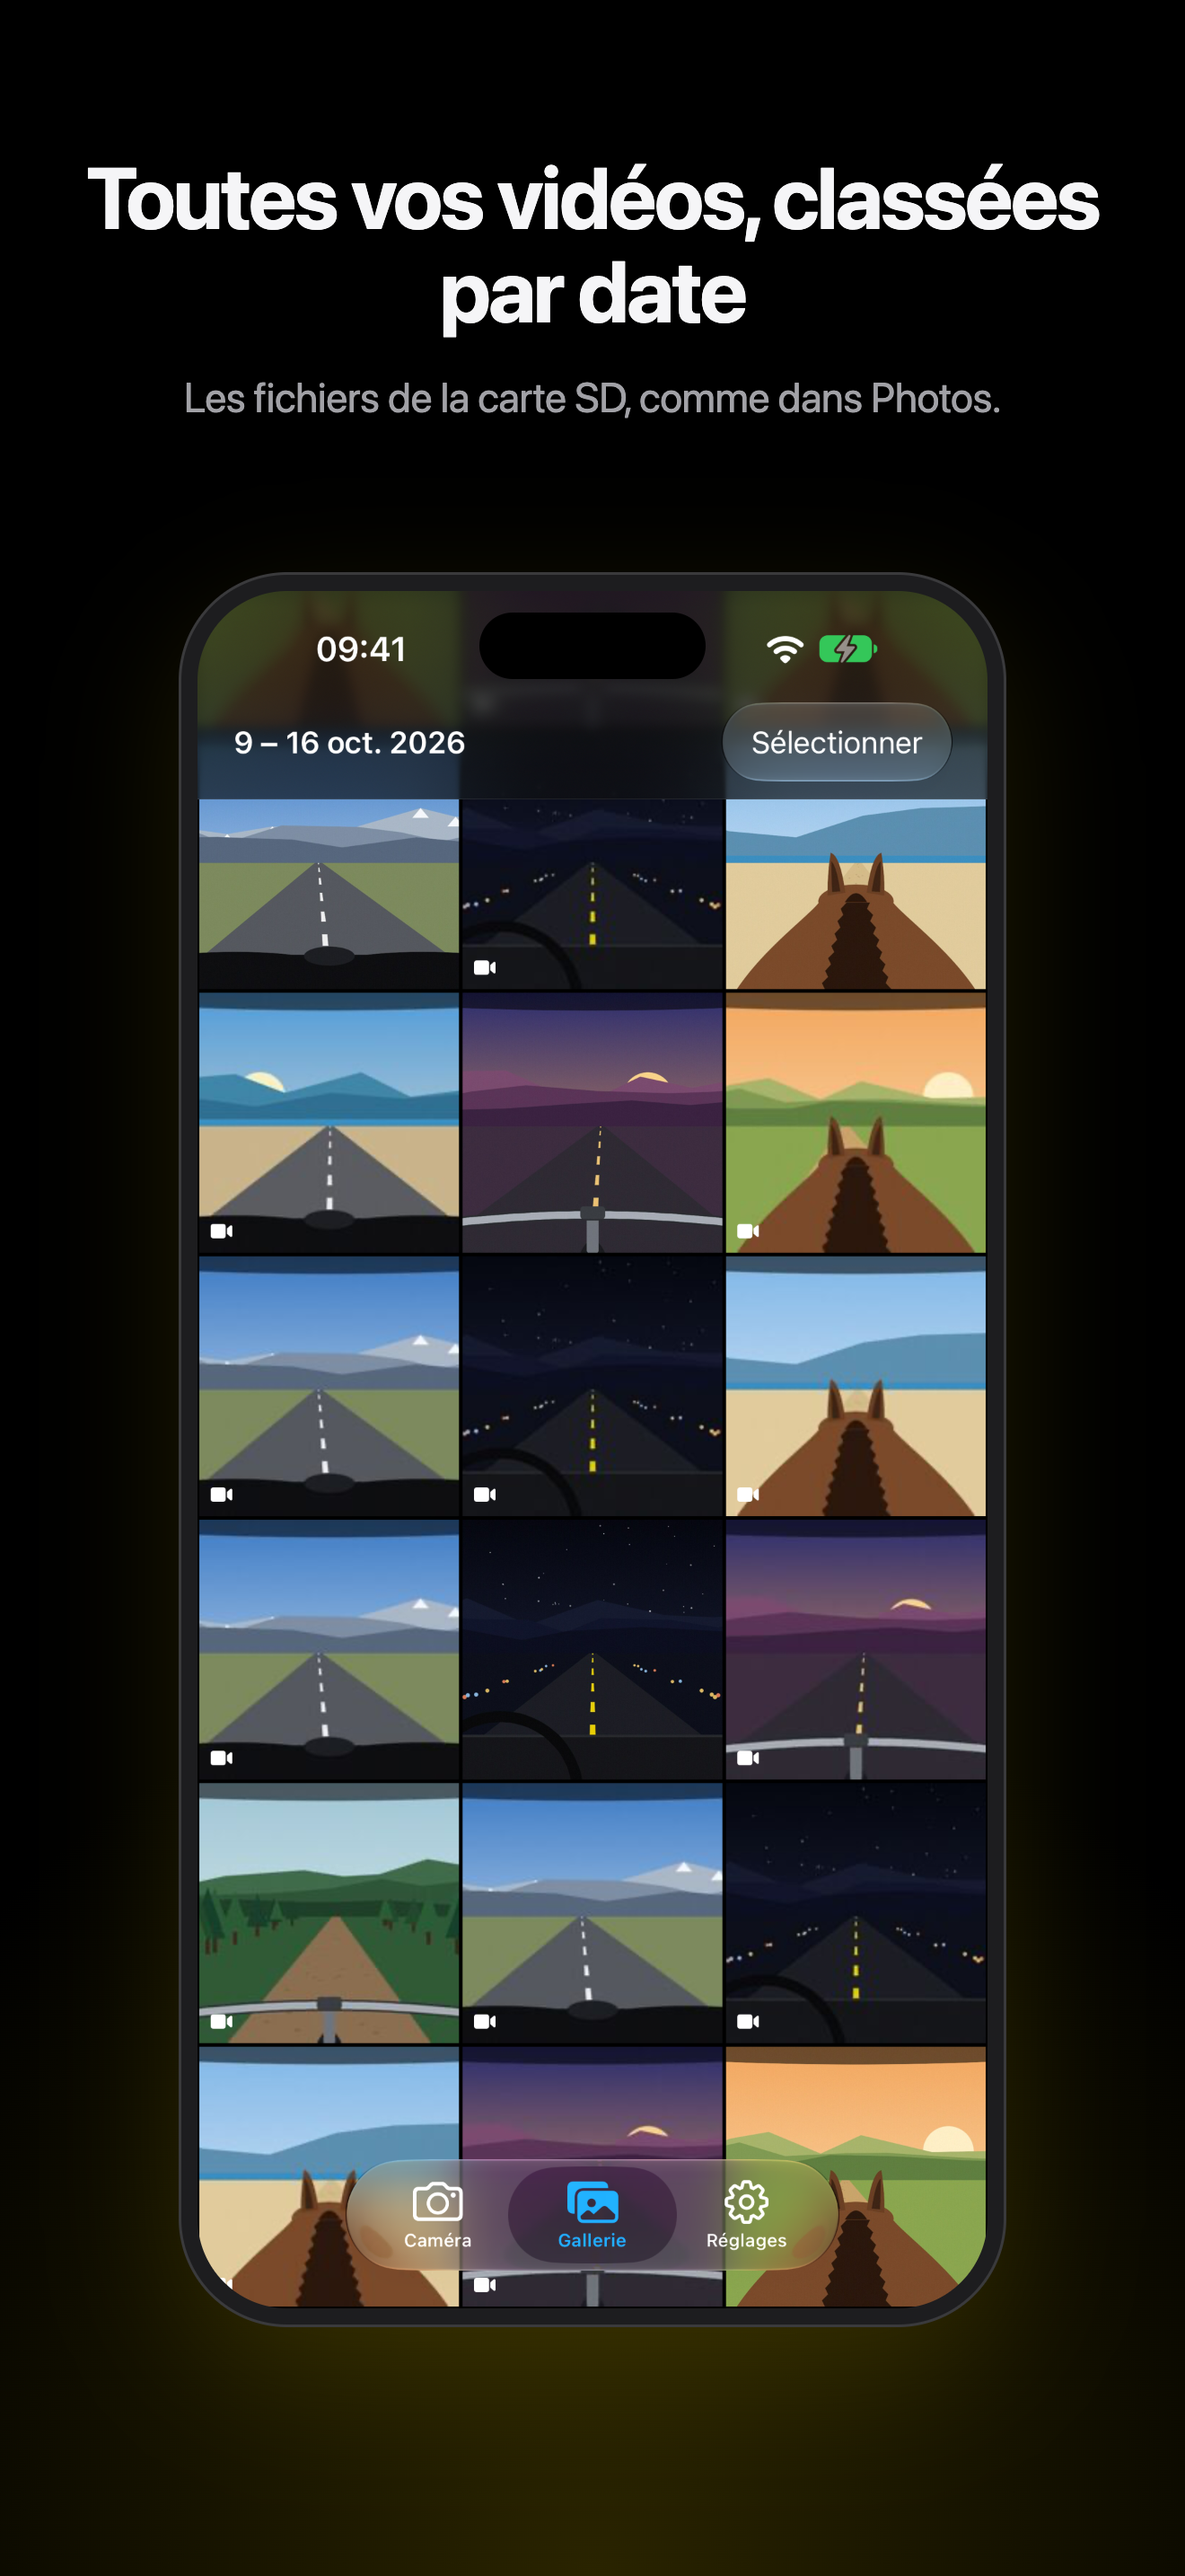
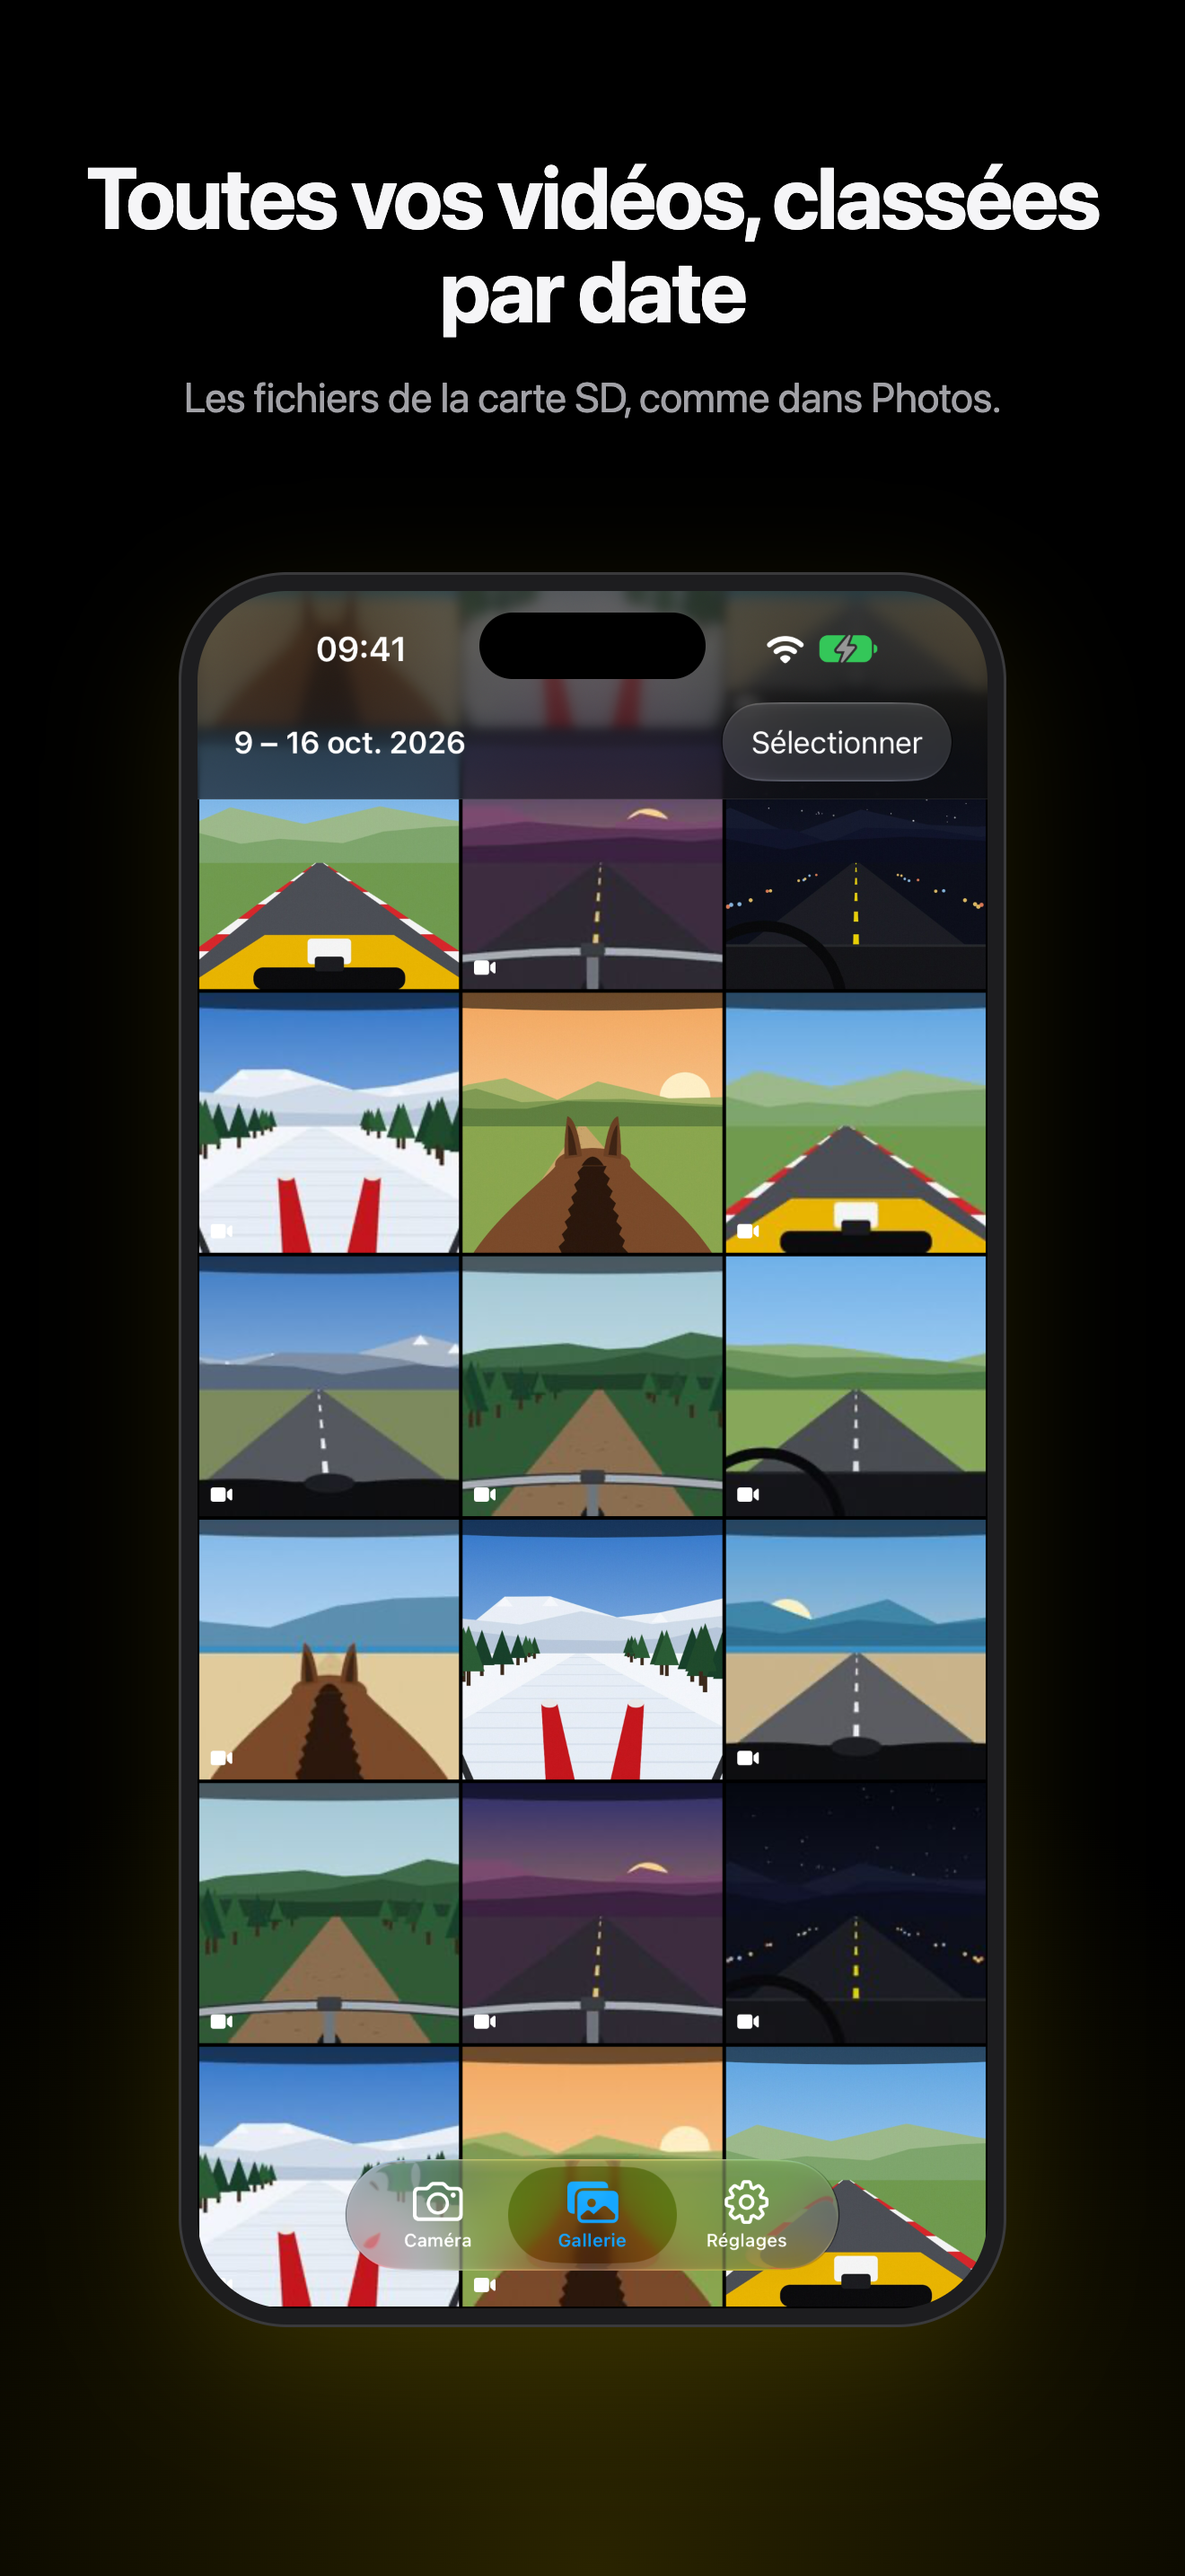
Add new WebP images for Moto and Ski usage - Introduced `use-moto.webp` to enhance visual representation for Moto-related content. - Added `use-ski.webp` for Ski-related visuals, improving user engagement.

diff --git a/docs/index.html b/docs/index.html
@@ -4,7 +4,7 @@
   <meta charset="utf-8">
   <meta name="viewport" content="width=device-width, initial-scale=1, viewport-fit=cover">
   <title>Caméra Casque · App iPhone et Android compatible Cambox V3+ et V4</title>
-  <meta name="description" content="Caméra Casque, l’application gratuite compatible Cambox V3+ et V4 qui remplace l’app Cambox disparue des stores : aperçu en direct, vidéos, réglages. À cheval, à moto, à vélo ou en voiture. iPhone et Android.">
+  <meta name="description" content="Caméra Casque, l’application gratuite compatible Cambox V3+ et V4 qui remplace l’app Cambox disparue des stores : aperçu en direct, vidéos, réglages. Sports équestres, sports mécaniques, karting, vélo, ski. iPhone et Android.">
   <meta name="color-scheme" content="light dark">
   <meta name="theme-color" content="#000000">
   <link rel="canonical" href="https://cameracasque.fr/">
@@ -23,7 +23,7 @@
   <meta name="twitter:card" content="summary_large_image">
   <link rel="icon" href="favicon.png" type="image/png">
   <link rel="apple-touch-icon" href="apple-touch-icon.png">
-  <link rel="stylesheet" href="styles.css?v=6">
+  <link rel="stylesheet" href="styles.css?v=7">
   <script>document.documentElement.classList.add("js")</script>
   <script src="site.js?v=6" defer></script>
   <script type="application/ld+json">
@@ -38,7 +38,7 @@
   "Application Cambox V4"
  ],
  "url": "https://cameracasque.fr/",
- "description": "Application gratuite et open source, compatible avec les caméras casque Cambox V3+, V4, V4 Plus et V4 Pro : aperçu en direct, enregistrement, galerie des vidéos et réglages de la caméra par WiFi, à cheval, à moto, à vélo ou en voiture.",
+ "description": "Application gratuite et open source, compatible avec les caméras casque Cambox V3+, V4, V4 Plus et V4 Pro : aperçu en direct, enregistrement, galerie des vidéos et réglages de la caméra par WiFi, pour les sports équestres, les sports mécaniques, le karting, le vélo, le VTT, le BMX, le ski et le snowboard.",
  "applicationCategory": "MultimediaApplication",
  "operatingSystem": "iOS 16.4 ou plus récent, Android 8 ou plus récent",
  "inLanguage": "fr",
@@ -174,7 +174,7 @@
         <div class="hero__copy">
           <p class="compat"><svg aria-hidden="true" viewBox="0 0 16 16"><path d="M4 8.3l2.5 2.5L12 5.2" /></svg>Compatible Cambox V3+ et V4</p>
           <h1 id="hero-title">Votre Cambox reprend du service.</h1>
-          <p class="lead">Cambox a fermé et son application a quitté l’App Store et Google Play. <strong>Caméra Casque</strong> prend le relais&nbsp;: l’app gratuite pour l’aperçu en direct, l’enregistrement, la galerie et les réglages de votre Cambox V3+ ou V4, sur iPhone et Android. À cheval, à moto, à vélo ou en voiture.</p>
+          <p class="lead">Cambox a fermé et son application a quitté l’App Store et Google Play. <strong>Caméra Casque</strong> prend le relais&nbsp;: l’app gratuite pour l’aperçu en direct, l’enregistrement, la galerie et les réglages de votre Cambox V3+ ou V4, sur iPhone et Android. À cheval, à moto, en karting, à vélo ou sur les pistes de ski.</p>
           <div class="cta">
             <a class="btn btn--accent" data-link="testflight" href="#installer">
               <svg aria-hidden="true" viewBox="0 0 24 24"><path d="M12 3v12m0 0l-5-5m5 5l5-5M5 21h14" /></svg>
@@ -254,8 +254,8 @@
         <article class="feature feature--flip reveal">
           <figure class="phone">
             <picture>
-              <source srcset="img/gallery-dark.webp?v=4" media="(prefers-color-scheme: dark)">
-              <img src="img/gallery-light.webp?v=4" alt="Caméra Casque, écran Gallerie : vidéos de la carte SD filmées à cheval, à moto, à vélo et en voiture" width="640" height="1391" loading="lazy">
+              <source srcset="img/gallery-dark.webp?v=5" media="(prefers-color-scheme: dark)">
+              <img src="img/gallery-light.webp?v=5" alt="Caméra Casque, écran Gallerie : vidéos de la carte SD filmées à cheval, à moto, en karting, à vélo et à ski" width="640" height="1391" loading="lazy">
             </picture>
           </figure>
           <div class="feature__copy">
@@ -313,9 +313,13 @@
         <header class="section-head reveal">
           <p class="eyebrow">Les caméras compatibles</p>
           <h2 id="camera-title">Cambox V3+ et V4.<br>Partout où vous allez.</h2>
-          <p class="lead lead--narrow">Les Cambox se fixent sans percer ni modifier la coque&nbsp;: sous la visière d’un casque de moto, de sport automobile ou de vélo, sur une bombe d’équitation. Ci-dessous, les fiches de la V3+ et de la V4 Pro.</p>
-          <ul class="facts facts--center" aria-label="Usages">
-            <li>À cheval</li><li>À moto</li><li>À vélo</li><li>En voiture</li>
+          <p class="lead lead--narrow">Les Cambox se fixent sans percer ni modifier la coque&nbsp;: sous la visière d’un casque de moto, de karting, de sport automobile, de vélo ou de ski, sur une bombe d’équitation. Ci-dessous, les fiches de la V3+ et de la V4 Pro.</p>
+          <ul class="uses" aria-label="Activités">
+            <li><img src="img/use-horse.webp" alt="" width="480" height="270" loading="lazy"><span>Sports équestres</span></li>
+            <li><img src="img/use-moto.webp" alt="" width="480" height="270" loading="lazy"><span>Sports mécaniques</span></li>
+            <li><img src="img/use-kart.webp" alt="" width="480" height="270" loading="lazy"><span>Karting</span></li>
+            <li><img src="img/use-bike.webp" alt="" width="480" height="270" loading="lazy"><span>Vélo, VTT et BMX</span></li>
+            <li><img src="img/use-ski.webp" alt="" width="480" height="270" loading="lazy"><span>Ski et snowboard</span></li>
           </ul>
         </header>
         <div class="models reveal">

diff --git a/docs/en/index.html b/docs/en/index.html
@@ -4,7 +4,7 @@
   <meta charset="utf-8">
   <meta name="viewport" content="width=device-width, initial-scale=1, viewport-fit=cover">
   <title>Caméra Casque · iPhone and Android app compatible with Cambox V3+ and V4</title>
-  <meta name="description" content="Caméra Casque, the free app compatible with Cambox V3+ and V4 that replaces the Cambox app removed from the stores: live preview, videos, settings. On horseback, motorbike, bike or in the car. iPhone and Android.">
+  <meta name="description" content="Caméra Casque, the free app compatible with Cambox V3+ and V4 that replaces the Cambox app removed from the stores: live preview, videos, settings. Equestrian sports, motorsports, karting, cycling, skiing. iPhone and Android.">
   <meta name="color-scheme" content="light dark">
   <meta name="theme-color" content="#000000">
   <link rel="canonical" href="https://cameracasque.fr/en/">
@@ -23,7 +23,7 @@
   <meta name="twitter:card" content="summary_large_image">
   <link rel="icon" href="../favicon.png" type="image/png">
   <link rel="apple-touch-icon" href="../apple-touch-icon.png">
-  <link rel="stylesheet" href="./styles.css?v=6">
+  <link rel="stylesheet" href="./styles.css?v=7">
   <script>document.documentElement.classList.add("js")</script>
   <script src="./site.js?v=6" defer></script>
   <script type="application/ld+json">
@@ -38,7 +38,7 @@
   "Cambox V4 application"
  ],
  "url": "https://cameracasque.fr/en/",
- "description": "Free and open-source app compatible with the Cambox V3+, V4, V4 Plus and V4 Pro helmet cameras: live preview, recording, video gallery and camera settings over WiFi, on horseback, motorbike, bike or in the car.",
+ "description": "Free and open-source app compatible with the Cambox V3+, V4, V4 Plus and V4 Pro helmet cameras: live preview, recording, video gallery and camera settings over WiFi, for equestrian sports, motorsports, karting, cycling, MTB, BMX, skiing and snowboarding.",
  "applicationCategory": "MultimediaApplication",
  "operatingSystem": "iOS 16.4 or later, Android 8 or later",
  "inLanguage": "en",
@@ -174,7 +174,7 @@
         <div class="hero__copy">
           <p class="compat"><svg aria-hidden="true" viewBox="0 0 16 16"><path d="M4 8.3l2.5 2.5L12 5.2" /></svg>Compatible with Cambox V3+ and V4</p>
           <h1 id="hero-title">Your Cambox is back in action.</h1>
-          <p class="lead">Cambox closed and its app left the App Store and Google Play. <strong>Caméra Casque</strong> takes over: the free app for live preview, recording, gallery and settings of your Cambox V3+ or V4, on iPhone and Android. On horseback, motorbike, bike or in the car.</p>
+          <p class="lead">Cambox closed and its app left the App Store and Google Play. <strong>Caméra Casque</strong> takes over: the free app for live preview, recording, gallery and settings of your Cambox V3+ or V4, on iPhone and Android. On horseback, on a motorbike, in a kart, on a bike or on the ski slopes.</p>
           <div class="cta">
             <a class="btn btn--accent" data-link="testflight" href="#installer">
               <svg aria-hidden="true" viewBox="0 0 24 24"><path d="M12 3v12m0 0l-5-5m5 5l5-5M5 21h14" /></svg>
@@ -254,8 +254,8 @@
         <article class="feature feature--flip reveal">
           <figure class="phone">
             <picture>
-              <source srcset="../img/gallery-dark.webp?v=4" media="(prefers-color-scheme: dark)">
-              <img src="../img/gallery-light.webp?v=4" alt="Caméra Casque Gallery screen: SD card videos filmed on horseback, motorbike, bike and in the car" width="640" height="1391" loading="lazy">
+              <source srcset="../img/gallery-dark.webp?v=5" media="(prefers-color-scheme: dark)">
+              <img src="../img/gallery-light.webp?v=5" alt="Caméra Casque Gallery screen: SD card videos filmed on horseback, motorbike, kart, bike and skis" width="640" height="1391" loading="lazy">
             </picture>
           </figure>
           <div class="feature__copy">
@@ -313,9 +313,13 @@
         <header class="section-head reveal">
           <p class="eyebrow">The compatible cameras</p>
           <h2 id="camera-title">Cambox V3+ and V4.<br>Wherever you go.</h2>
-          <p class="lead lead--narrow">Cambox cameras mount without drilling or modifying the shell: under the visor of a motorbike, motorsport or bike helmet, or on a riding helmet. Below, the spec sheets of the V3+ and the V4 Pro.</p>
-          <ul class="facts facts--center" aria-label="Uses">
-            <li>On horseback</li><li>On a motorbike</li><li>On a bike</li><li>In the car</li>
+          <p class="lead lead--narrow">Cambox cameras mount without drilling or modifying the shell: under the visor of a motorbike, karting, motorsport, bike or ski helmet, or on a riding helmet. Below, the spec sheets of the V3+ and the V4 Pro.</p>
+          <ul class="uses" aria-label="Activities">
+            <li><img src="../img/use-horse.webp" alt="" width="480" height="270" loading="lazy"><span>Equestrian sports</span></li>
+            <li><img src="../img/use-moto.webp" alt="" width="480" height="270" loading="lazy"><span>Motorsports</span></li>
+            <li><img src="../img/use-kart.webp" alt="" width="480" height="270" loading="lazy"><span>Karting</span></li>
+            <li><img src="../img/use-bike.webp" alt="" width="480" height="270" loading="lazy"><span>Cycling, MTB and BMX</span></li>
+            <li><img src="../img/use-ski.webp" alt="" width="480" height="270" loading="lazy"><span>Skiing and snowboarding</span></li>
           </ul>
         </header>
         <div class="models reveal">

diff --git a/docs/styles.css b/docs/styles.css
@@ -280,3 +280,9 @@ h3 { font-size: 24px; line-height: 1.17; }
   .footer__inner { grid-template-columns: 1fr; }
   .footer__links { justify-content: flex-start; }
 }
+
+/* Activities: one scene per use, under the cameras' heading */
+.uses { list-style: none; padding: 0; margin: 32px 0 0; display: grid; grid-template-columns: repeat(auto-fit, minmax(170px, 1fr)); gap: 14px; }
+.uses li { position: relative; border-radius: 16px; overflow: hidden; background: #1d1d1f; }
+.uses img { display: block; width: 100%; height: auto; aspect-ratio: 16 / 9; object-fit: cover; }
+.uses span { display: block; padding: 10px 12px 12px; font-size: 15px; font-weight: 600; color: #f5f5f7; text-align: left; }

diff --git a/docs/en/privacy.html b/docs/en/privacy.html
@@ -10,7 +10,7 @@
   <link rel="alternate" hreflang="fr" href="https://cameracasque.fr/confidentialite.html">
   <link rel="alternate" hreflang="en" href="https://cameracasque.fr/en/privacy.html">
   <link rel="icon" href="../favicon.png" type="image/png">
-  <link rel="stylesheet" href="./styles.css?v=6">
+  <link rel="stylesheet" href="./styles.css?v=7">
   <style>
     .policy { background: var(--bg); padding: calc(56px + 64px) 0 96px; }
     .policy h1 { font-size: clamp(36px, 5vw, 52px); }

diff --git a/docs/confidentialite.html b/docs/confidentialite.html
@@ -10,7 +10,7 @@
   <link rel="alternate" hreflang="fr" href="https://cameracasque.fr/confidentialite.html">
   <link rel="alternate" hreflang="en" href="https://cameracasque.fr/en/privacy.html">
   <link rel="icon" href="favicon.png" type="image/png">
-  <link rel="stylesheet" href="styles.css?v=6">
+  <link rel="stylesheet" href="styles.css?v=7">
   <style>
     .policy { background: var(--bg); padding: calc(56px + 64px) 0 96px; }
     .policy h1 { font-size: clamp(36px, 5vw, 52px); }
